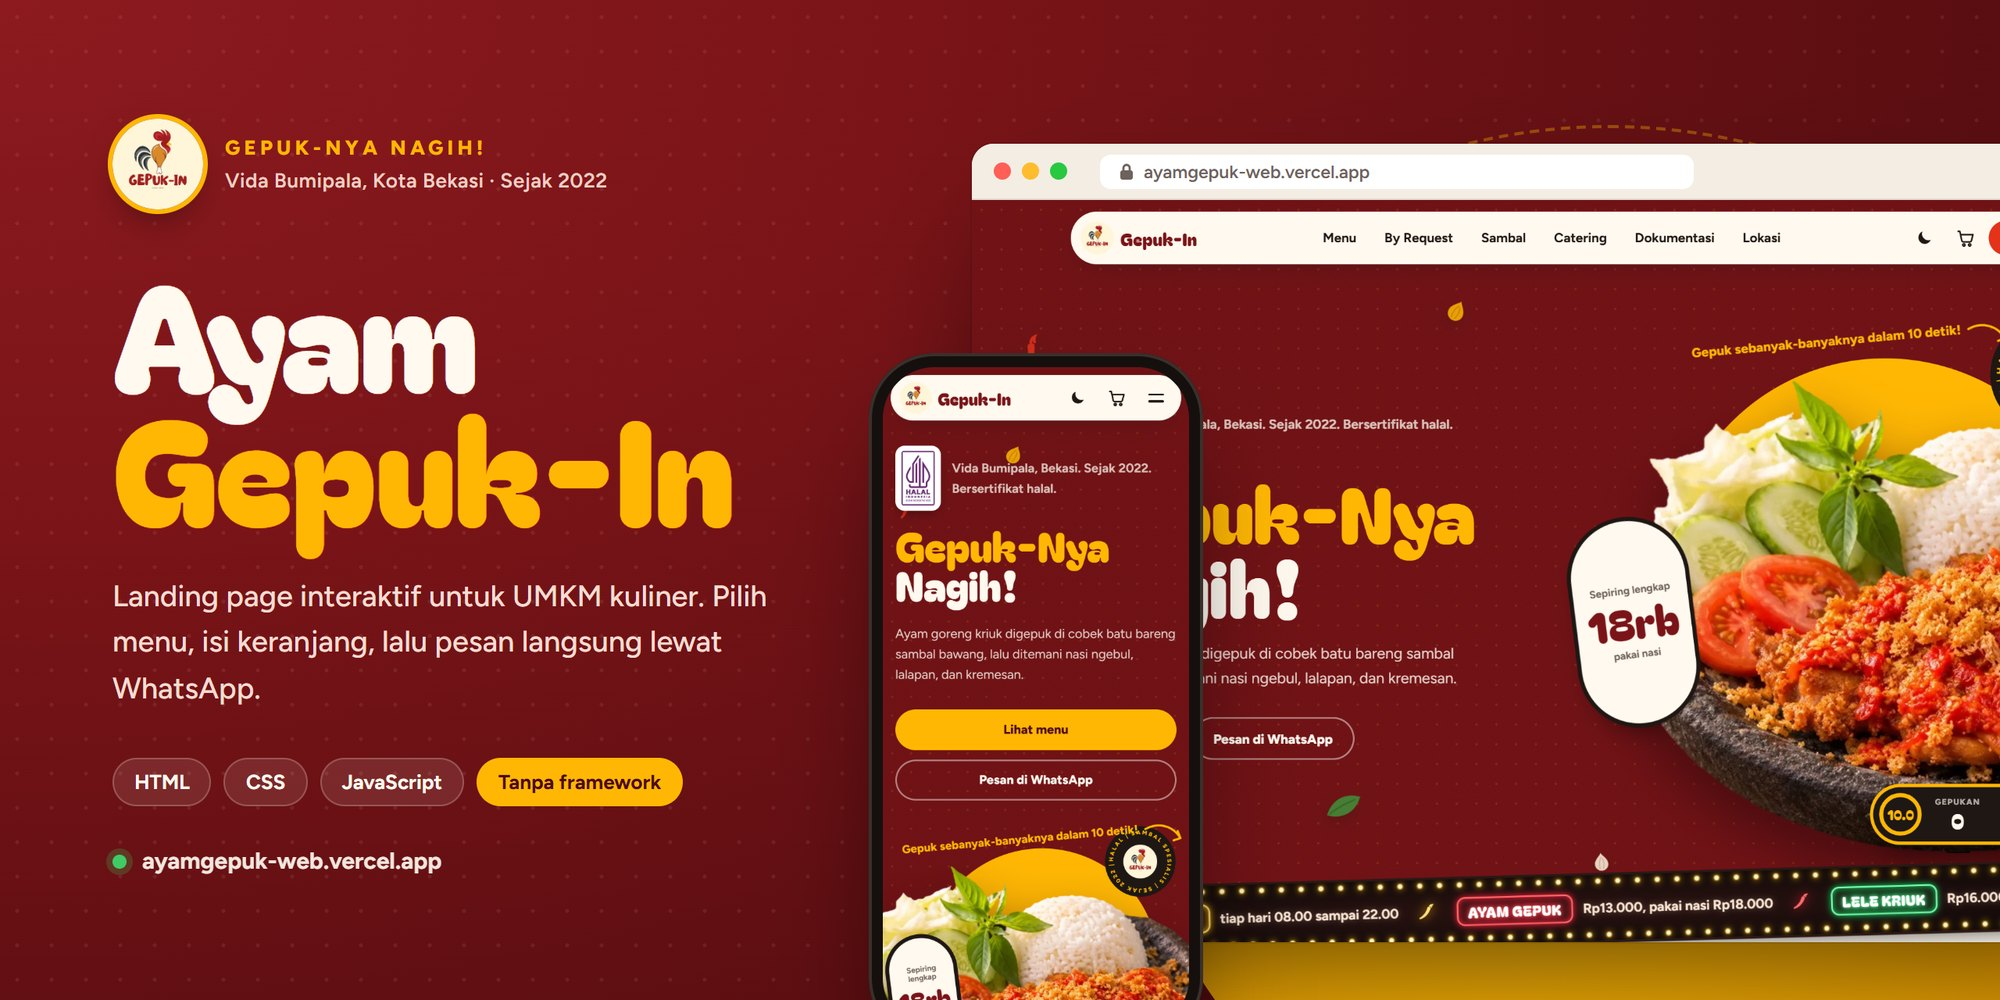
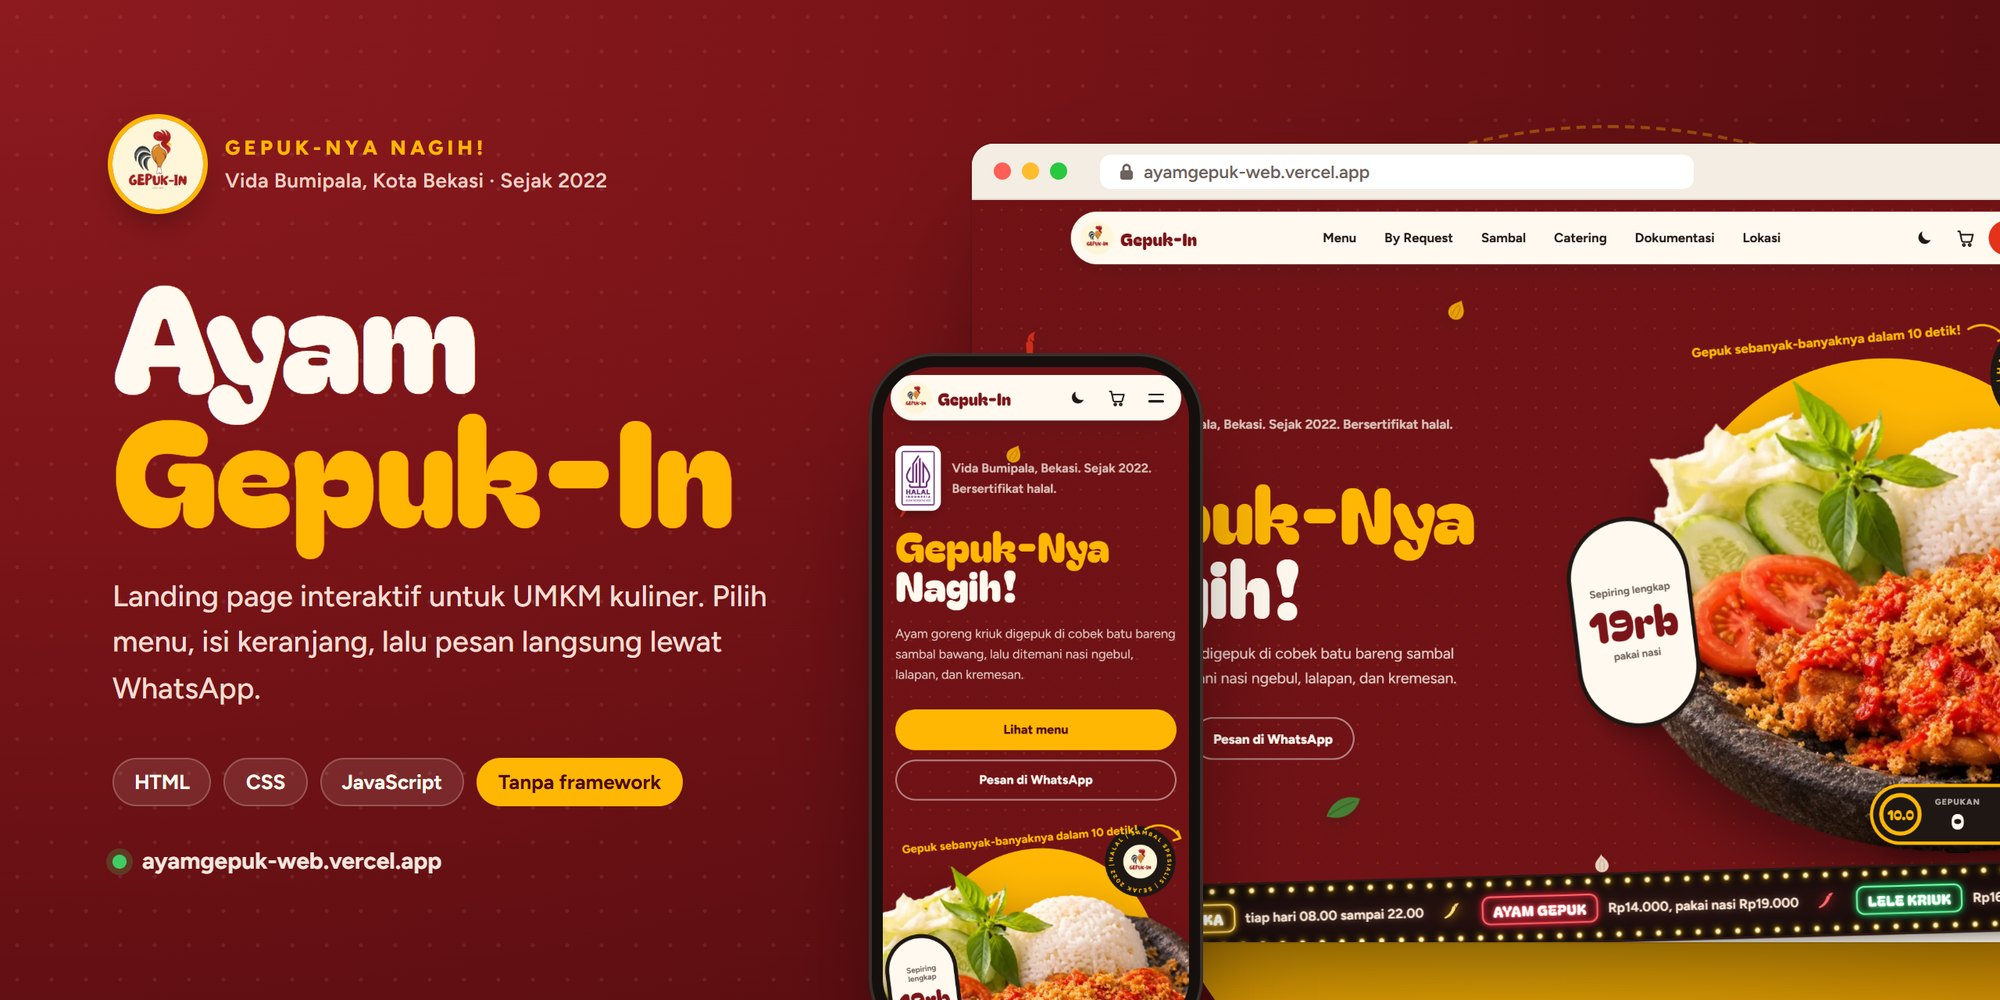
Tambah alamat di pesan WhatsApp, harga Ayam Gepuk 19rb, dan QR code
- Keranjang: kolom Alamat antar, ikut terkirim di pesan WhatsApp (hanya jika diisi)
- Harga Ayam Gepuk jadi 19rb pakai nasi / 14rb tanpa nasi (Dada dan Paha sama), termasuk stiker hero dan ticker
- Harga di keranjang lama (localStorage) diselaraskan otomatis dengan data.js
- Panel keranjang bisa digulir di layar pendek
- QR code website bertema brand di assets/qr (poster, PNG, SVG)
- Perbarui README, PRD, gambar README, dan og-preview

Changed region(s): [[0.589, 0.868, 1.0, 0.961], [0.806, 0.589, 0.837, 0.651], [0.434, 0.992, 0.496, 1.0]]

diff --git a/js/main.js b/js/main.js
@@ -157,7 +157,7 @@
   $("#againBtn").addEventListener("click", () => { reset(); plate.focus({ preventScroll: true }); });
   $("#bubbleBtn").addEventListener("click", () => {
     const m = MENU.makanan[0];
-    addCart(`${m.name} Dada, pakai nasi`, m.paket[0]);
+    addCart(`${m.name} Dada, pakai nasi`, Array.isArray(m.paket) ? m.paket[0] : m.paket);
     bubble.hidden = true;
     setCart(true);
   });
@@ -289,6 +289,17 @@
   let cart = [];
   try { cart = JSON.parse(localStorage.getItem("agi-cart")) || []; } catch {}
   const save = () => { try { localStorage.setItem("agi-cart", JSON.stringify(cart)); } catch {} };
+  // keranjang lama di localStorage bisa menyimpan harga usang: selaraskan dengan data.js terbaru
+  const priceByLabel = new Map();
+  MENU.makanan.forEach((m) => (m.variants || [""]).forEach((v, j) => [["paket", "pakai nasi"], ["ala", "tanpa nasi"]].forEach(([k, t]) => {
+    const p = m[k];
+    priceByLabel.set(`${m.name}${v ? ` ${v}` : ""}, ${t}`, Array.isArray(p) ? p[j] : p);
+  })));
+  MENU.pendamping.forEach((m) => priceByLabel.set(m.name, m.price));
+  [...MENU.sambal, MENU.tepung].forEach((m) => priceByLabel.set(`${m.name} 250gr`, m.price));
+  cart = cart.filter((c) => c && c.qty > 0);
+  cart.forEach((c) => { if (priceByLabel.has(c.name)) c.price = priceByLabel.get(c.name); });
+  save();
   const lineOf = (c) => (c.price == null ? "harga menyusul" : rp(c.qty * c.price));
   function addCart(name, price, btn, qty = 1) {
     const f = cart.find((c) => c.name === name);
@@ -327,10 +338,10 @@
     renderCart();
   });
   $("#sendWa").addEventListener("click", () => {
-    const name = $("#cName").value.trim(), note = $("#cNote").value.trim();
+    const name = $("#cName").value.trim(), addr = $("#cAddr").value.trim().replace(/\s*\n\s*/g, ", "), note = $("#cNote").value.trim();
     const total = cart.reduce((a, c) => a + c.qty * c.price, 0);
     const msg = `Halo Ayam Gepuk-In, saya mau pesan:\n${cart.map((c) => `- ${c.qty}x ${c.name} (${lineOf(c)})`).join("\n")}\n\nTotal: ${rp(total)}` + (cart.some((c) => c.price == null) ? " + menu request (harga menyusul)" : "") +
-      (name ? `\nNama: ${name}` : "") + (note ? `\nCatatan: ${note}` : "");
+      (name ? `\nNama: ${name}` : "") + (addr ? `\nAlamat: ${addr}` : "") + (note ? `\nCatatan: ${note}` : "");
     window.open(waUrl(msg), "_blank", "noopener");
   });
   const cartEl = $("#cart");

diff --git a/index.html b/index.html
@@ -107,7 +107,7 @@
           <g fill="#6d625d" opacity=".6"><circle cx="48" cy="60" r="2"/><circle cx="62" cy="110" r="2.6"/><circle cx="40" cy="150" r="2"/><circle cx="72" cy="168" r="1.8"/><circle cx="55" cy="190" r="2.4"/><circle cx="58" cy="34" r="1.6"/></g>
         </svg>
       </div>
-      <div class="sticker sticker--price" aria-hidden="true"><small>Sepiring lengkap</small><b>18rb</b><small>pakai nasi</small></div>
+      <div class="sticker sticker--price" aria-hidden="true"><small>Sepiring lengkap</small><b>19rb</b><small>pakai nasi</small></div>
       <p class="hit-hint" id="hitHint"><svg viewBox="0 0 60 40" aria-hidden="true"><path d="M4 30C14 10 34 4 52 12m0 0-9-6m9 6-6 8" fill="none" stroke="currentColor" stroke-width="3" stroke-linecap="round" stroke-linejoin="round"/></svg><span>Gepuk sebanyak-banyaknya dalam 10 detik!</span></p>
       <div class="game" id="game" data-state="idle" role="group" aria-label="Mini game gepuk 10 detik">
         <div class="game__timer" aria-label="Sisa waktu"><svg viewBox="0 0 44 44" aria-hidden="true"><circle class="game__track" cx="22" cy="22" r="19"/><circle class="game__ring" id="gRing" cx="22" cy="22" r="19"/></svg><b id="gTime">10.0</b></div>
@@ -298,6 +298,7 @@
     <div class="cart__list" id="cartList"></div>
     <div class="cart__foot">
       <label>Nama<input id="cName" autocomplete="name" placeholder="Biar kami tahu ini pesanan siapa"></label>
+      <label>Alamat antar<textarea id="cAddr" rows="2" autocomplete="street-address" placeholder="Contoh: Vida Cluster Durian Blok A1 No. 5. Kosongkan kalau ambil sendiri"></textarea></label>
       <label>Catatan<textarea id="cNote" rows="2" placeholder="Contoh: sambal dipisah, antar jam 12"></textarea></label>
       <div class="cart__total"><span>Total</span><b id="cartTotal">Rp0</b></div>
       <button class="btn btn--chili btn--block" id="sendWa">Kirim pesanan lewat WhatsApp</button>

diff --git a/js/data.js b/js/data.js
@@ -12,7 +12,7 @@ const CONFIG = {
 
 const MENU = {
   makanan: [
-    { id: "ayam-gepuk", name: "Ayam Gepuk", desc: "Sambal bawang, lalapan, kremesan", paket: [18, 19], ala: [13, 14], variants: ["Dada", "Paha"], lead: true },
+    { id: "ayam-gepuk", name: "Ayam Gepuk", desc: "Sambal bawang, lalapan, kremesan", paket: 19, ala: 14, variants: ["Dada", "Paha"], lead: true },
     { id: "lele-kriuk", name: "Lele Kriuk", desc: "Sambal bawang, lalapan, kremesan", paket: 16, ala: 11, tint: "kunyit" },
     { id: "kremes-bawang", name: "Kremes Bawang Putih", desc: "Ayam, sambal bawang, lalapan", paket: 18, ala: 13, tint: "daun" },
     { id: "kremes-ketumbar", name: "Kremes Ketumbar", desc: "Ayam, sambal bawang, lalapan", paket: 18, ala: 13, tint: "cabai" },
@@ -51,7 +51,7 @@ const MENU = {
 const TICKER = {
   atas: [
     { label: "Jam buka", text: "tiap hari 08.00 sampai 22.00", c: "kuning" },
-    { label: "Ayam Gepuk", text: "Rp13.000, pakai nasi Rp18.000", c: "merah" },
+    { label: "Ayam Gepuk", text: "Rp14.000, pakai nasi Rp19.000", c: "merah" },
     { label: "Lele Kriuk", text: "Rp16.000 pakai nasi", c: "hijau" },
     { label: "Sambal 250gr", text: "5 varian, mulai Rp30.000", c: "merah" },
     { label: "Catering", text: "tanpa minimal order, pernah antar 90 porsi sekaligus", c: "kuning" },

diff --git a/css/style.css b/css/style.css
@@ -343,6 +343,8 @@ p { max-width: 60ch; text-wrap: pretty; }
 .cart__total { display: flex; justify-content: space-between; align-items: baseline; font-weight: 700; }
 .cart__total b { font: 400 2.2rem var(--fun); color: var(--maroon); }
 .cart__note { font-size: .8rem; color: var(--abu); text-align: center; margin-inline: auto; }
+/* layar pendek: seluruh panel yang menggulung, supaya daftar pesanan tidak terjepit */
+@media (max-height: 700px) { .cart__panel { overflow-y: auto; } .cart__list { flex: none; overflow: visible; } }
 
 .fab { position: fixed; left: 12px; right: 12px; bottom: 12px; z-index: 60; display: none; align-items: center; gap: 10px; min-height: 58px; padding: 0 22px; border-radius: 99px; background: var(--cobek); color: var(--nasi); font-weight: 800; box-shadow: 0 16px 30px -12px rgba(30, 23, 20, .6); transform: translateY(150%); transition: transform .4s var(--bounce); }
 .fab.is-on { transform: none; }

diff --git a/README.md b/README.md
@@ -19,6 +19,7 @@
   <a href="#tampilan">Tampilan</a> &nbsp;·&nbsp;
   <a href="#fitur">Fitur</a> &nbsp;·&nbsp;
   <a href="#menu">Menu</a> &nbsp;·&nbsp;
+  <a href="#qr-code">QR Code</a> &nbsp;·&nbsp;
   <a href="#menjalankan-secara-lokal">Instalasi</a> &nbsp;·&nbsp;
   <a href="#mengelola-konten">Kelola Konten</a> &nbsp;·&nbsp;
   <a href="PRD.md">PRD</a>
@@ -44,8 +45,8 @@ Website ini dibangun untuk satu tujuan: **membuat pengunjung bisa memesan dengan
 
 **Pemesanan**
 
-- **Keranjang belanja** dengan total otomatis. Isinya tetap tersimpan walau halaman ditutup.
-- **Checkout ke WhatsApp.** Isi keranjang, nama, dan catatan disusun menjadi satu pesan siap kirim.
+- **Keranjang belanja** dengan total otomatis. Isinya tetap tersimpan walau halaman ditutup, dan harganya otomatis mengikuti data menu terbaru.
+- **Checkout ke WhatsApp.** Isi keranjang, nama, alamat antar, dan catatan disusun menjadi satu pesan siap kirim.
 - **Toggle *Pakai nasi / Tanpa nasi*** yang mengganti seluruh harga menu utama sekaligus.
 - **Varian dan pesanan khusus:** pilihan Dada atau Paha, menu *by request* (nasi kuning, tumpeng, nasi liwet), dan catering tanpa minimal order.
 - **Tiga kanal pemesanan:** WhatsApp, GoFood, dan ShopeeFood.
@@ -66,7 +67,7 @@ Website ini dibangun untuk satu tujuan: **membuat pengunjung bisa memesan dengan
 ### Alur pemesanan
 
 1. Pengunjung memilih menu beserta variannya, lalu menekan **Tambah**.
-2. Keranjang menghitung total, lalu pengunjung mengisi nama dan catatan.
+2. Keranjang menghitung total, lalu pengunjung mengisi nama, alamat antar, dan catatan.
 3. Tombol **Kirim pesanan lewat WhatsApp** membuka `wa.me` dengan pesan yang sudah tersusun.
 4. Penjual mengonfirmasi ongkir dan jam antar di WhatsApp.
 
@@ -78,8 +79,11 @@ Halo Ayam Gepuk-In, saya mau pesan:
 
 Total: Rp84.000
 Nama: Budi
+Alamat: Vida Cluster Durian Blok A1 No. 5
 Catatan: Sambal dipisah, antar jam 12
 ```
+
+Baris Nama, Alamat, dan Catatan hanya muncul jika diisi, jadi pelanggan yang ambil sendiri cukup mengosongkan alamat.
 
 ## Menu
 
@@ -91,7 +95,7 @@ Catatan: Sambal dipisah, antar jam 12
 
 | Menu | Pakai nasi | Tanpa nasi |
 | :--- | ---: | ---: |
-| Ayam Gepuk (Dada / Paha) | Rp18.000 / Rp19.000 | Rp13.000 / Rp14.000 |
+| Ayam Gepuk (Dada atau Paha) | Rp19.000 | Rp14.000 |
 | Lele Kriuk | Rp16.000 | Rp11.000 |
 | Ayam Kremes Bawang Putih | Rp18.000 | Rp13.000 |
 | Ayam Kremes Ketumbar | Rp18.000 | Rp13.000 |
@@ -107,6 +111,23 @@ Catatan: Sambal dipisah, antar jam 12
 Sumber data harga ada di [`js/data.js`](js/data.js). Jika ada perbedaan, file tersebut yang menjadi acuan.
 
 </details>
+
+## QR Code
+
+<p align="center">
+  <img src=".github/readme/qr-poster.jpg" alt="Poster QR code Ayam Gepuk-In bertuliskan Scan &amp; Pesan" width="360">
+</p>
+
+QR code mengarah ke [ayamgepuk-web.vercel.app](https://ayamgepuk-web.vercel.app/) dan dibuat dengan tingkat koreksi kesalahan tertinggi (H), sehingga tetap terbaca meski ada logo di tengahnya. Semua file ada di [`assets/qr/`](assets/qr/).
+
+| File | Ukuran | Kegunaan |
+| :--- | :--- | :--- |
+| [`qr-ayamgepuk-poster.png`](assets/qr/qr-ayamgepuk-poster.png) | 1800 × 2400 px | Poster siap cetak untuk meja, etalase, atau booth CFD |
+| [`qr-ayamgepuk.png`](assets/qr/qr-ayamgepuk.png) | 2048 × 2048 px | QR saja, untuk ditempel di desain lain |
+| [`qr-ayamgepuk.svg`](assets/qr/qr-ayamgepuk.svg) | Vektor | Tetap tajam di ukuran cetak berapa pun, termasuk spanduk |
+
+> [!TIP]
+> Saat mencetak, beri jarak kosong di sekeliling QR dan pastikan lebarnya minimal 2,5 cm agar mudah dipindai.
 
 ## Teknologi
 
@@ -163,6 +184,7 @@ AyamGepuk-Web/
 │   │   ├── cut/        Foto menu berlatar transparan
 │   │   ├── menu/       Foto produk, sambal, dan hero
 │   │   └── doc/        Dokumentasi pesanan dan catering
+│   ├── qr/             QR code website: poster, PNG, dan SVG
 │   └── lagu/           Soundtrack Ayam Gepuk-In
 ├── .github/readme/     Gambar untuk README
 └── PRD.md              Dokumen kebutuhan produk
@@ -222,7 +244,7 @@ Situs ini statis, jadi bisa di-host di mana saja tanpa build step.
 | GitHub Pages | Settings → Pages → deploy dari branch `main`, folder root |
 
 > [!IMPORTANT]
-> Meta `og:url` dan `og:image` di `index.html` mengarah ke `ayamgepuk-web.vercel.app`. Perbarui keduanya jika domain berubah agar pratinjau tautan di WhatsApp dan media sosial tetap muncul.
+> Meta `og:url` dan `og:image` di `index.html`, juga QR code di `assets/qr/`, mengarah ke `ayamgepuk-web.vercel.app`. Perbarui semuanya jika domain berubah agar pratinjau tautan dan QR code tetap mengarah ke alamat yang benar.
 
 ## Identitas Visual
 

diff --git a/PRD.md b/PRD.md
@@ -1,6 +1,6 @@
 # PRD | Website Ayam Gepuk-In
 
-Versi 1.0 | 18 Nov 2026 | Lingkup: **front end saja** (HTML + CSS + JS murni, tanpa backend)
+Versi 1.1 | 22 Nov 2026 | Lingkup: **front end saja** (HTML + CSS + JS murni, tanpa backend)
 
 ## 1. Ringkasan
 Landing page satu halaman untuk UMKM **Ayam Gepuk-In** (sejak 2022, Vida Bumipala, Kota Bekasi). Tujuan utama: pengunjung melihat menu + harga dengan jelas lalu **pesan lewat WhatsApp** dalam sesedikit mungkin klik. Tagline: **"Gepuk-Nya Nagih!"**
@@ -37,14 +37,14 @@ Mobile-first: ±85% trafik diasumsikan dari Instagram.
 | 7 | Segera Hadir | Lem Kuning frozen, Ayam Gepuk frozen, Tepung Marinasi, Ayam Goreng Lengkuas | Kartu redup + label "Segera" |
 | 8 | Testimoni | Om Aji, bintang 5 (satu-satunya testimoni nyata) | Tidak mengarang testimoni lain |
 | 9 | Lokasi | Vida Cluster Durian + booth CFD Pasar Alam Vida, jam buka, status Buka/Tutup real-time | Tombol Maps |
-| 10 | Pesan | WA, GoFood, ShopeeFood | Link GoFood/ShopeeFood/Maps = placeholder sampai dikirim |
+| 10 | Pesan | WA, GoFood, ShopeeFood | Link GoFood & ShopeeFood terpasang; link Maps masih pencarian umum |
 | 11 | Footer | Logo, IG, WA, halal ID, © | |
-| + | Keranjang | Drawer: daftar item, qty +/-, total, nama + catatan | "Kirim ke WhatsApp" membentuk pesan otomatis ke +62 856-9206-1476; disimpan di localStorage |
+| + | Keranjang | Drawer: daftar item, qty +/-, total, nama + alamat antar + catatan | "Kirim ke WhatsApp" membentuk pesan otomatis ke +62 856-9206-1476 (baris nama/alamat/catatan hanya jika diisi); disimpan di localStorage, harga diselaraskan ulang dengan `js/data.js` saat halaman dibuka |
 
 ## 6. Data menu (sumber: Menu.txt, aturan nasi = +5K)
 | Menu | Paket Kenyang | Ala Carte |
 |---|---|---|
-| Ayam Gepuk (+ sambal bawang, lalapan, kremesan) | 18K sampai 19K | 13K sampai 14K |
+| Ayam Gepuk (+ sambal bawang, lalapan, kremesan) | 19K | 14K |
 | Lele Kriuk | 16K | 11K |
 | Ayam Kremes Bawang Putih | 18K | 13K |
 | Ayam Kremes Ketumbar | 18K | 13K |
@@ -52,7 +52,7 @@ Mobile-first: ±85% trafik diasumsikan dari Instagram.
 
 Pendamping: Tahu Ngebul 4pcs 5K, Tempe Selimut Daun Bawang 4pcs 5K.
 Sambal 250gr: Bawang Segar 30K, Cakalang 35K, Cumi 35K, Ijo Royo-royo 30K, Teri 35K. Tepung Gepuk-in 250gr 7K.
-Ayam Gepuk (harga rentang): di keranjang pilih **Dada / Paha**, dada = harga atas.
+Ayam Gepuk: di keranjang pilih **Dada / Paha**, harga keduanya sama (per 22 Nov 2026 naik dari 18K/13K menjadi 19K/14K).
 
 > Catatan: Menu.txt mencantumkan ala carte kremes 18K dan lele 16K (sama dengan paket). PRD memakai aturan "ala carte = paket − 5K" yang sudah dikonfirmasi sebelumnya. **Mohon dicek ulang.**
 
@@ -61,12 +61,17 @@ Ayam Gepuk (harga rentang): di keranjang pilih **Dada / Paha**, dada = harga ata
 - Lighthouse mobile ≥ 90; gambar dioptimasi, `loading="lazy"`.
 - Aksesibel: kontras AA, fokus keyboard terlihat, `prefers-reduced-motion` dihormati.
 - Data menu terpusat di `js/data.js` agar mudah diubah tanpa menyentuh HTML.
-- Foto menu: slot `assets/img/menu/<id>.jpg`; bila belum ada, tampil ilustrasi piring placeholder otomatis.
+- Foto menu: cutout `assets/img/cut/<id>.webp` untuk kartu menu, foto berlatar `assets/img/menu/<id>.webp` untuk sambal dan produk segera hadir.
 - Separator teks di layar memakai " | ".
 
 ## 8. Di luar lingkup (v1)
 Backend, pembayaran online, login, admin panel, CMS.
 
 ## 9. Aset yang masih ditunggu
-- Foto produk GPT (lihat PROMPT-GAMBAR-GPT.md di folder proyek lama), simpan sebagai `assets/img/menu/<id>.jpg` (id ada di `js/data.js`).
-- Link GoFood, ShopeeFood, Google Maps.
+- Link Google Maps titik outlet (saat ini `CONFIG.maps` masih pencarian umum).
+
+## 10. Riwayat perubahan
+| Versi | Tanggal | Perubahan |
+|---|---|---|
+| 1.1 | 22 Nov 2026 | Harga Ayam Gepuk 19K (paket) / 14K (ala carte); kolom alamat antar di keranjang dan pesan WhatsApp; QR code website di `assets/qr/` |
+| 1.0 | 18 Nov 2026 | Versi awal |
